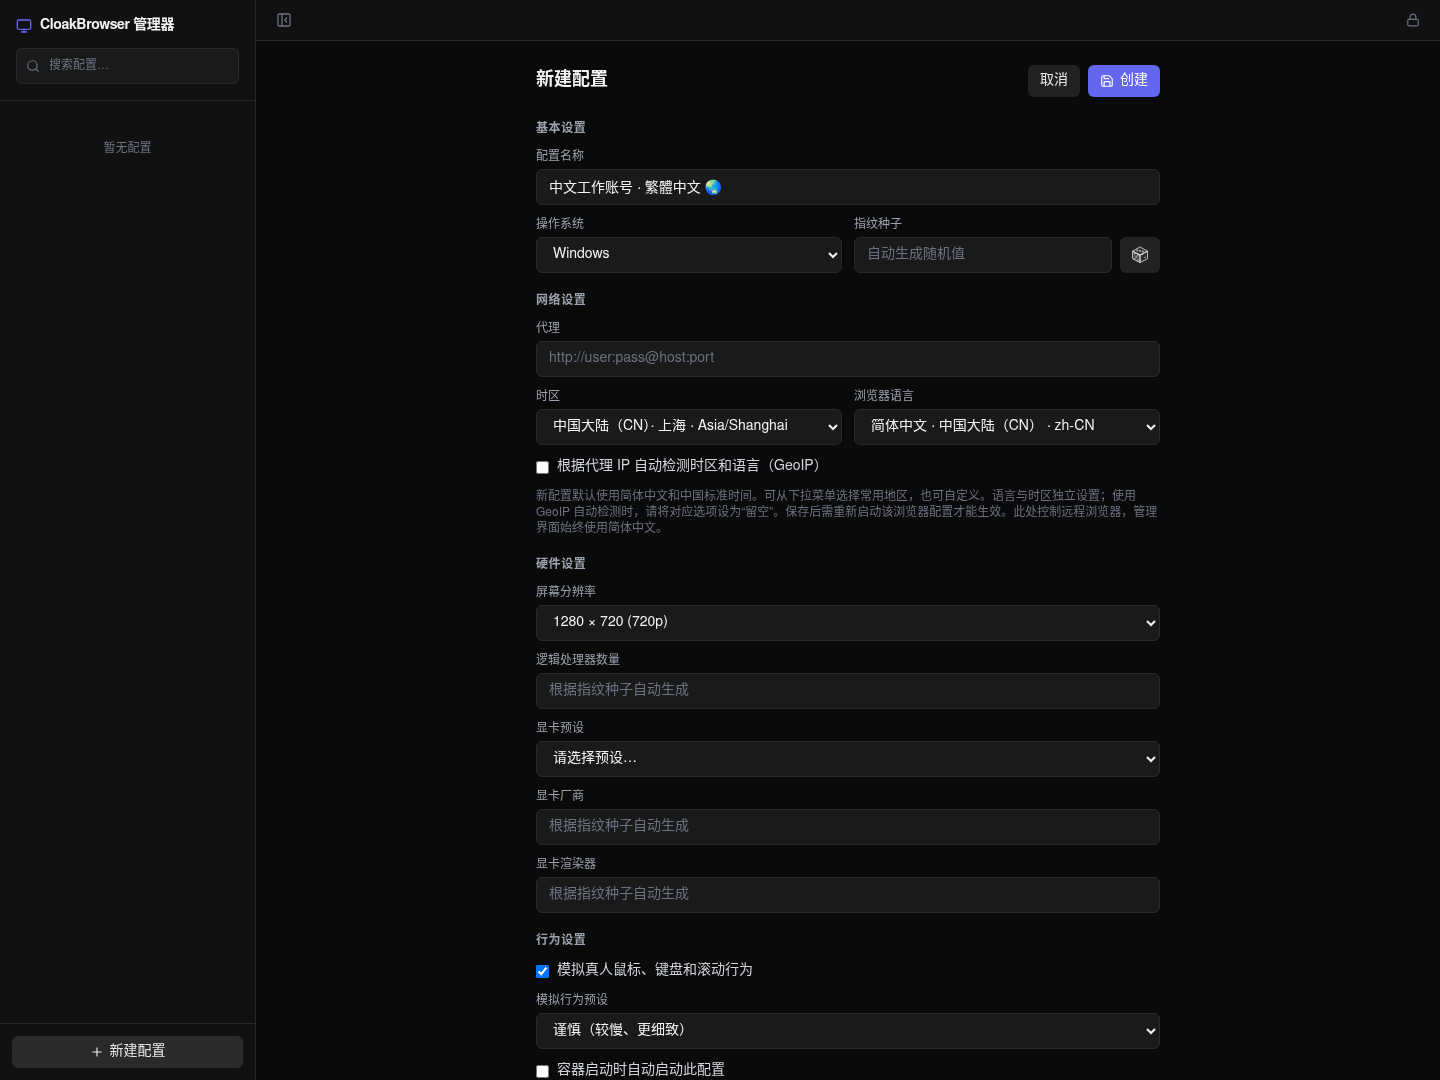
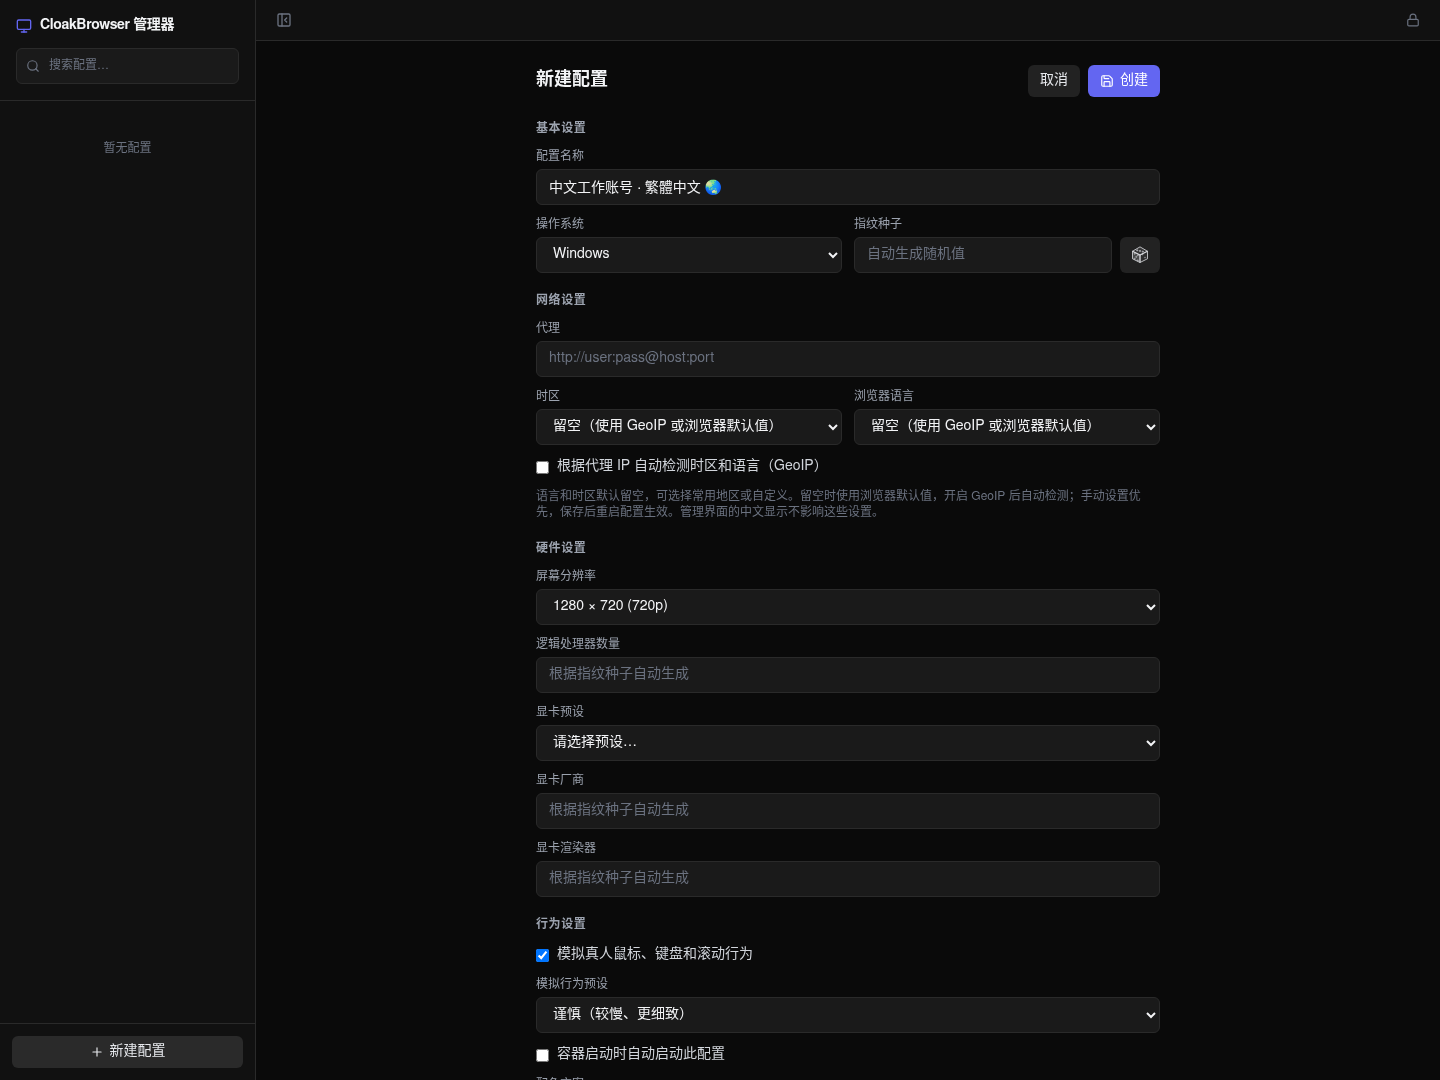
fix: keep Chinese localization within the manager interface

Changed region(s): [[0.375, 0.4278, 0.8125, 1.0], [0.5938, 0.3667, 0.75, 0.3972], [0.375, 0.3667, 0.5312, 0.3972]]

diff --git a/frontend/src/components/ProfileForm.tsx b/frontend/src/components/ProfileForm.tsx
@@ -64,8 +64,8 @@ const GPU_PRESETS: Record<string, { vendor: string; renderer: string }> = {
 
 const DEFAULT_FORM: ProfileCreateData = {
   name: "",
-  locale: "zh-CN",
-  timezone: "Asia/Shanghai",
+  locale: null,
+  timezone: null,
   platform: "windows",
   screen_width: 1280,
   screen_height: 720,
@@ -341,7 +341,7 @@ export function ProfileForm({ profile, onSave, onDelete, onCancel }: ProfileForm
               />
               根据代理 IP 自动检测时区和语言（GeoIP）
             </label>
-            <p className="text-xs text-gray-500">新配置默认使用简体中文和中国标准时间。可从下拉菜单选择常用地区，也可自定义。语言与时区独立设置；使用 GeoIP 自动检测时，请将对应选项设为“留空”。保存后需重新启动该浏览器配置才能生效。此处控制远程浏览器，管理界面始终使用简体中文。</p>
+            <p className="text-xs text-gray-500">语言和时区默认留空，可选择常用地区或自定义。留空时使用浏览器默认值，开启 GeoIP 后自动检测；手动设置优先，保存后重启配置生效。管理界面的中文显示不影响这些设置。</p>
           </div>
         </section>
 

diff --git a/frontend/src/components/ProfileForm.test.tsx b/frontend/src/components/ProfileForm.test.tsx
@@ -51,8 +51,8 @@ describe("ProfileForm launch arguments", () => {
 
     await waitFor(() => expect(onSave).toHaveBeenCalledOnce());
     expect(onSave).toHaveBeenCalledWith(expect.objectContaining({
-      locale: "zh-CN",
-      timezone: "Asia/Shanghai",
+      locale: null,
+      timezone: null,
       screen_width: 1280,
       screen_height: 720,
       humanize: true,

diff --git a/backend/browser_manager.py b/backend/browser_manager.py
@@ -187,7 +187,6 @@ def _ensure_keepassxc_config(paths: KeePassXCPaths) -> None:
         lines = []
 
     _set_ini_root_value(lines, "SingleInstance", "false")
-    _set_ini_value(lines, "GUI", "Language", "zh_CN")
     _set_ini_value(lines, "Browser", "Enabled", "true")
     _set_ini_value(lines, "Browser", "UpdateBinaryPath", "false")
     for key in (
@@ -221,9 +220,6 @@ def _build_profile_process_env(
 
     if keepassxc_paths:
         env.update({
-            # Select the translated UI in config independently of libc locale.
-            "LANG": "C.UTF-8",
-            "LC_ALL": "C.UTF-8",
             "TMPDIR": str(runtime_dir),
             "KPXC_CONFIG": str(keepassxc_paths.config),
             "KPXC_CONFIG_LOCAL": str(keepassxc_paths.local_config),
@@ -234,7 +230,7 @@ def _build_profile_process_env(
         })
     elif browser_locale:
         # Linux Chromium selects its UI from LANGUAGE, not --lang. Override the
-        # container's Chinese UI only in this browser's environment. C.UTF-8 is
+        # inherited UI language only in this browser's environment. C.UTF-8 is
         # always available; LANGUAGE selects Chromium's bundled translations
         # without requiring a generated libc locale for every browser language.
         env.update({
@@ -305,47 +301,47 @@ def _init_profile_defaults(user_data_dir: Path) -> None:
             "checksum": "",
             "roots": {
                 "bookmark_bar": {
-                    "type": "folder", "id": "1", "name": "书签栏",
+                    "type": "folder", "id": "1", "name": "Bookmarks bar",
                     "date_added": ts, "date_modified": ts,
                     "children": [
-                        folder("自动化检测", [
-                            bm("Rebrowser 自动化检测", "https://bot-detector.rebrowser.net/"),
+                        folder("Detection Tests", [
+                            bm("Rebrowser Bot Detector", "https://bot-detector.rebrowser.net/"),
                             bm("Incolumitas", "https://bot.incolumitas.com/"),
                             bm("SannySort", "https://bot.sannysoft.com/"),
-                            bm("BrowserScan 自动化检测", "https://www.browserscan.net/bot-detection"),
-                            bm("FingerprintJS 演示", "https://demo.fingerprint.com/web-scraping"),
+                            bm("BrowserScan Bot", "https://www.browserscan.net/bot-detection"),
+                            bm("FingerprintJS Demo", "https://demo.fingerprint.com/web-scraping"),
                             bm("Pixelscan", "https://pixelscan.net/fingerprint-check"),
                             bm("CreepJS", "https://abrahamjuliot.github.io/creepjs/"),
                             bm("fingerprint-scan", "https://fingerprint-scan.com/"),
-                            bm("DeviceInfo 自动化检测", "https://deviceandbrowserinfo.com/are_you_a_bot"),
+                            bm("DeviceInfo Bot", "https://deviceandbrowserinfo.com/are_you_a_bot"),
                         ]),
-                        folder("浏览器指纹", [
+                        folder("Fingerprint", [
                             bm("BrowserLeaks Canvas", "https://browserleaks.com/canvas"),
                             bm("BrowserLeaks WebGL", "https://browserleaks.com/webgl"),
-                            bm("BrowserLeaks 字体", "https://browserleaks.com/fonts"),
+                            bm("BrowserLeaks Fonts", "https://browserleaks.com/fonts"),
                             bm("BrowserLeaks JS", "https://browserleaks.com/javascript"),
                             bm("FingerprintJS OSS", "https://fingerprintjs.github.io/fingerprintjs/"),
-                            bm("音频指纹", "https://audiofingerprint.openwpm.com/"),
+                            bm("Audio FP", "https://audiofingerprint.openwpm.com/"),
                             bm("DeviceInfo", "https://deviceandbrowserinfo.com/info_device"),
                         ]),
-                        folder("请求头与 TLS", [
+                        folder("Headers & TLS", [
                             bm("httpbin headers", "https://httpbin.org/headers"),
                             bm("httpbin IP", "https://httpbin.org/ip"),
-                            bm("TLS 指纹", "https://tls.browserleaks.com/"),
+                            bm("TLS Fingerprint", "https://tls.browserleaks.com/"),
                         ]),
                         folder("reCAPTCHA", [
-                            bm("Google v3 演示", "https://recaptcha-demo.appspot.com/recaptcha-v3-request-scores.php"),
+                            bm("Google v3 Demo", "https://recaptcha-demo.appspot.com/recaptcha-v3-request-scores.php"),
                             bm("2captcha v3", "https://2captcha.com/demo/recaptcha-v3"),
                             bm("Turnstile", "https://peet.ws/turnstile-test/non-interactive.html"),
                         ]),
                     ],
                 },
-                "other": {"type": "folder", "id": "2", "name": "其他书签", "children": []},
-                "synced": {"type": "folder", "id": "3", "name": "移动设备书签", "children": []},
+                "other": {"type": "folder", "id": "2", "name": "Other bookmarks", "children": []},
+                "synced": {"type": "folder", "id": "3", "name": "Mobile bookmarks", "children": []},
             },
             "version": 1,
         }
-        bookmarks_path.write_text(json.dumps(bookmarks, indent=2, ensure_ascii=False), encoding="utf-8")
+        bookmarks_path.write_text(json.dumps(bookmarks, indent=2))
         logger.info("Created default bookmarks for %s", user_data_dir.name)
 
     # --- DuckDuckGo as default search engine ---

diff --git a/backend/tests/test_browser_manager.py b/backend/tests/test_browser_manager.py
@@ -271,6 +271,7 @@ def test_ensure_keepassxc_config_enables_browser_and_preserves_settings(tmp_path
     paths.data_dir.mkdir()
     paths.config.write_text(
         "Theme=dark\n\n"
+        "[GUI]\nLanguage=de\n\n"
         "[Browser]\nShowNotification=false\n\n"
         "[Security]\nLockDatabaseIdle=true\nLockDatabaseMinimize=true\n"
     )
@@ -280,7 +281,8 @@ def test_ensure_keepassxc_config_enables_browser_and_preserves_settings(tmp_path
     config = paths.config.read_text()
     assert "Theme=dark" in config
     assert "SingleInstance=false" in config
-    assert "Language=zh_CN" in config
+    assert "Language=de" in config
+    assert "Language=zh_CN" not in config
     assert "[Browser]" in config
     assert "Enabled=true" in config
     assert "UpdateBinaryPath=false" in config
@@ -307,8 +309,8 @@ def test_profile_process_env_removes_password(monkeypatch: pytest.MonkeyPatch, t
     assert env["XDG_RUNTIME_DIR"] == str(paths.runtime_dir)
     assert env["TMPDIR"] == str(paths.runtime_dir)
     assert env["KPXC_CONFIG"] == str(paths.config)
-    assert env["LANG"] == "C.UTF-8"
-    assert env["LC_ALL"] == "C.UTF-8"
+    assert env.get("LANG") == os.environ.get("LANG")
+    assert env.get("LANGUAGE") == os.environ.get("LANGUAGE")
 
 
 def test_browser_language_is_isolated_from_container_and_other_profiles(
@@ -597,7 +599,7 @@ def test_init_creates_bookmarks(tmp_path: Path):
     children = data["roots"]["bookmark_bar"]["children"]
     assert len(children) == 4  # 4 folders
     folder_names = {f["name"] for f in children}
-    assert folder_names == {"自动化检测", "浏览器指纹", "请求头与 TLS", "reCAPTCHA"}
+    assert folder_names == {"Detection Tests", "Fingerprint", "Headers & TLS", "reCAPTCHA"}
 
 
 def test_profile_locale_updates_old_languages_without_losing_preferences(tmp_path: Path):

diff --git a/scripts/check_chinese_ui.py b/scripts/check_chinese_ui.py
@@ -75,8 +75,8 @@ async def main():
         await page.get_by_role('button', name='登录', exact=True).click()
         await page.get_by_role('button', name='新建配置', exact=True).first.click()
         await page.get_by_label('配置名称', exact=True).fill('中文工作账号 · 繁體中文 🌏')
-        await expect(page.get_by_label('浏览器语言', exact=True)).to_have_value('zh-CN')
-        await expect(page.get_by_label('时区', exact=True)).to_have_value('Asia/Shanghai')
+        await expect(page.get_by_label('浏览器语言', exact=True)).to_have_value('')
+        await expect(page.get_by_label('时区', exact=True)).to_have_value('')
         await page.get_by_label('备注', exact=True).fill('第一行：简体中文\n第二行：繁體中文與 Emoji 🌏')
         await page.get_by_label('添加标签').fill('中文测试')
         await page.get_by_label('添加标签').press('Enter')
@@ -85,6 +85,7 @@ async def main():
         await page.screenshot(path=str(ROOT / 'docs/screenshots/chinese-profile.png'), full_page=True)
         await page.get_by_role('button', name='创建', exact=True).click()
         await expect(page.get_by_role('heading', name='编辑配置')).to_be_visible()
+        assert profiles[0]['locale'] is None and profiles[0]['timezone'] is None
         assert profiles[0]['notes'].endswith('Emoji 🌏')
         assert profiles[0]['tags'][0]['tag'] == '中文测试'
         await page.get_by_label('搜索配置').fill('繁體中文')

diff --git a/scripts/check_chinese_container.py b/scripts/check_chinese_container.py
@@ -17,7 +17,7 @@ from playwright.async_api import async_playwright, expect
 
 ROOT = Path(__file__).resolve().parents[1]
 IMAGE = os.environ.get('SMOKE_IMAGE', 'cloakbrowser-manager:zh-local')
-PORT = int(os.environ.get('SMOKE_PORT', '18081'))
+PORT = int(os.environ.get('SMOKE_PORT', '18082'))
 BASE = f'http://127.0.0.1:{PORT}'
 NAME = f'cloakbrowser-zh-check-{secrets.token_hex(3)}'
 
@@ -51,6 +51,10 @@ async def main():
                 await ui.goto(BASE)
                 await ui.get_by_role('button', name='新建配置', exact=True).first.click()
                 await ui.get_by_label('配置名称', exact=True).fill('中文远程浏览器验收 🌏')
+                await expect(ui.get_by_label('浏览器语言', exact=True)).to_have_value('')
+                await expect(ui.get_by_label('时区', exact=True)).to_have_value('')
+                await ui.get_by_label('浏览器语言', exact=True).select_option('zh-CN')
+                await ui.get_by_label('时区', exact=True).select_option('Asia/Shanghai')
                 await ui.get_by_role('button', name='创建', exact=True).click()
                 await expect(ui.get_by_role('heading', name='编辑配置')).to_be_visible()
                 await ui.get_by_role('button', name='启动', exact=True).click()

diff --git a/backend/tests/test_chinese.py b/backend/tests/test_chinese.py
@@ -48,10 +48,10 @@ def test_clipboard_writes_utf8_without_latin1_loss(app_client):
         main._xclip_procs.pop(running.display, None)
 
 
-def test_chinese_bookmarks_preserve_existing_user_data(tmp_path):
+def test_default_bookmarks_are_not_translated_and_preserve_user_data(tmp_path):
     _init_profile_defaults(tmp_path)
     bookmarks = tmp_path / "Default" / "Bookmarks"
-    assert "浏览器指纹" in bookmarks.read_text(encoding="utf-8")
+    assert "Detection Tests" in bookmarks.read_text(encoding="utf-8")
     bookmarks.write_text('{"custom": "我的书签"}', encoding="utf-8")
     _init_profile_defaults(tmp_path)
     assert bookmarks.read_text(encoding="utf-8") == '{"custom": "我的书签"}'

diff --git a/README.md b/README.md
@@ -6,12 +6,13 @@
 
 ![中文配置界面](docs/screenshots/chinese-profile.png)
 
-## 中文支持
+## 界面汉化与额外功能
 
 - 管理界面、登录页、表单、操作状态、工具提示、删除确认、错误提示与输入校验均使用简体中文。
 - 配置名称、备注、标签支持简繁中文和 Emoji；备注支持多行，配置名称支持中文搜索，保存和编辑保留原文。
-- 新建配置默认使用 `zh-CN` 和 `Asia/Shanghai`，时区和语言提供常用地区下拉菜单，包括美国（东部/中部/山地/西部）、日本、德国、英国、法国、韩国等；也可选“自定义”输入其他有效值，或选“留空”交给 GeoIP / 浏览器默认值。语言与时区独立设置，保存后重启该浏览器配置生效。已有配置不会被改成中文语言或中国时区。
-- Docker 内提供 Noto CJK 中文字体、Emoji 字体和 `zh_CN.UTF-8` 环境；KeePassXC 界面设置为简体中文，并补齐 Qt 标准按钮和对话框的中文语言包。
+- 汉化限于管理器的操作、创建和编辑界面。新配置的浏览器语言、时区与原版一样默认留空，不会因为界面是中文就写入 `zh-CN` / `Asia/Shanghai`，也不会屏蔽 GeoIP 自动检测。已有配置的值原样保留。
+- 另行增加的地区下拉菜单支持美国、日本、德国等，可自定义或留空；仅在手动选择后按相应配置启动远程浏览器。
+- Docker 保留 UTF-8 和中文 / Emoji 字体，以正常显示输入内容；不设置全局中文语言、不强制 KeePassXC 的界面语言，也不翻译远程浏览器默认书签。
 - 点击远程画面后可直接使用本机中文输入法；支持 Ctrl/Cmd+C、X、V 双向文字复制、剪切和粘贴，普通 HTTP 下也可使用。备用文字面板仍保留。
 - 标签和启动参数输入框识别输入法组合状态，确认候选词时不会提前添加。
 - API 路径、字段名、状态枚举和 Chromium 参数保持原协议，自动化脚本继续使用 `running`、`stopped` 等原始值。
@@ -46,7 +47,7 @@ ssh -L 8080:127.0.0.1:8080 your-server
 | 配置名称、标签、备注 | 管理和区分浏览器环境，支持中文 |
 | 操作系统、指纹种子 | 设置模拟平台与指纹种子；留空种子会自动生成 |
 | 代理 | 支持 HTTP / SOCKS 代理，例如 `http://user:pass@host:port` |
-| 时区、浏览器语言 | 控制远程浏览器的时区、网页语言和浏览器菜单/设置页语言；保存后重启该配置生效。管理器与 KeePassXC 界面固定使用简体中文 |
+| 时区、浏览器语言 | 控制远程浏览器的时区、网页语言和浏览器菜单/设置页语言；保存后重启该配置生效。管理器界面固定使用简体中文；KeePassXC 保持其自身设置 |
 | GeoIP | 根据代理出口检测语言和时区；需要自动检测的字段应清空，手动值优先 |
 | 屏幕、显卡、逻辑处理器 | 设置对应指纹参数，显卡原始标识保留英文协议值 |
 | 模拟真人行为 | 默认启用谨慎模式；延续 CwithW 分支的设置 |

diff --git a/docs/verification.zh-CN.md b/docs/verification.zh-CN.md
@@ -1,5 +1,18 @@
 # 中文版验收记录
 
+## 0.1.0-zh.6：界面汉化范围审计
+
+与上游 `2d6ab81` 对照，撤销了语言 / 时区中文默认值、全局中文环境、KeePassXC 强制中文及默认书签翻译。管理界面文案、中文输入 / 剪贴板和手动地区选项保留。下方旧版记录属于历史验收，其中强制中文默认值和 KeePassXC 汉化不再是当前行为。
+
+本次验证：
+
+- 后端 209 项、前端 48 项测试及生产构建、Shell / Compose / diff 检查通过。
+- 桌面和手机上的中文登录、错误、新建、编辑、搜索、删除确认、地区选项及自定义 / 留空检查通过；新建请求中的语言和时区均为 `null`。
+- 从中文管理界面创建并实际启动未选地区的配置：当前 Docker 环境为 `navigator.language=en-US`、时区 `UTC`、Chromium 设置页英文；KeePassXC 正常启动并可切换窗口。
+- 显式选择中 / 日 / 德 / 英后的浏览器界面、首选语言、请求语言、时区及夏令时检查通过。
+- 普通 HTTP 下的真实中文 IME、地址栏输入、Ctrl+C/X/V 和双向文字剪贴板检查通过。
+- KeePassXC 已有非中文语言设置、已有书签与配置数据的保留有回归覆盖。升级不会清空已有配置中的语言 / 时区，也不会重命名用户已有书签。
+
 ## 0.1.0-zh.2：直接输入与双向剪贴板
 
 本地检查：后端 207 项、前端 48 项测试通过；TypeScript/Vite 构建、Shell/Compose 配置和 diff 检查通过。

diff --git a/CHANGELOG.zh-CN.md b/CHANGELOG.zh-CN.md
@@ -1,5 +1,12 @@
 # 更新记录
 
+## 0.1.0-zh.6
+
+- 将汉化范围收回到管理器的操作和创建 / 编辑界面；新配置语言、时区恢复原版的留空默认值，避免干扰 GeoIP。
+- 撤掉 Docker 全局中文语言设置、KeePassXC 强制中文和额外 Qt 翻译打包；远程浏览器默认书签恢复上游文本。
+- 保留另行要求的中文输入、双向剪贴板、地区下拉菜单和明确选择语言后的运行时支持；已有配置及用户数据保留。
+- 更新界面说明和回归检查，区分界面文字、配置默认值和远程程序行为。
+
 ## 0.1.0-zh.5
 
 - 语言切换同时更新 Chromium 首选语言列表，清除旧配置残留的语言选择；保留其他浏览器偏好设置。
